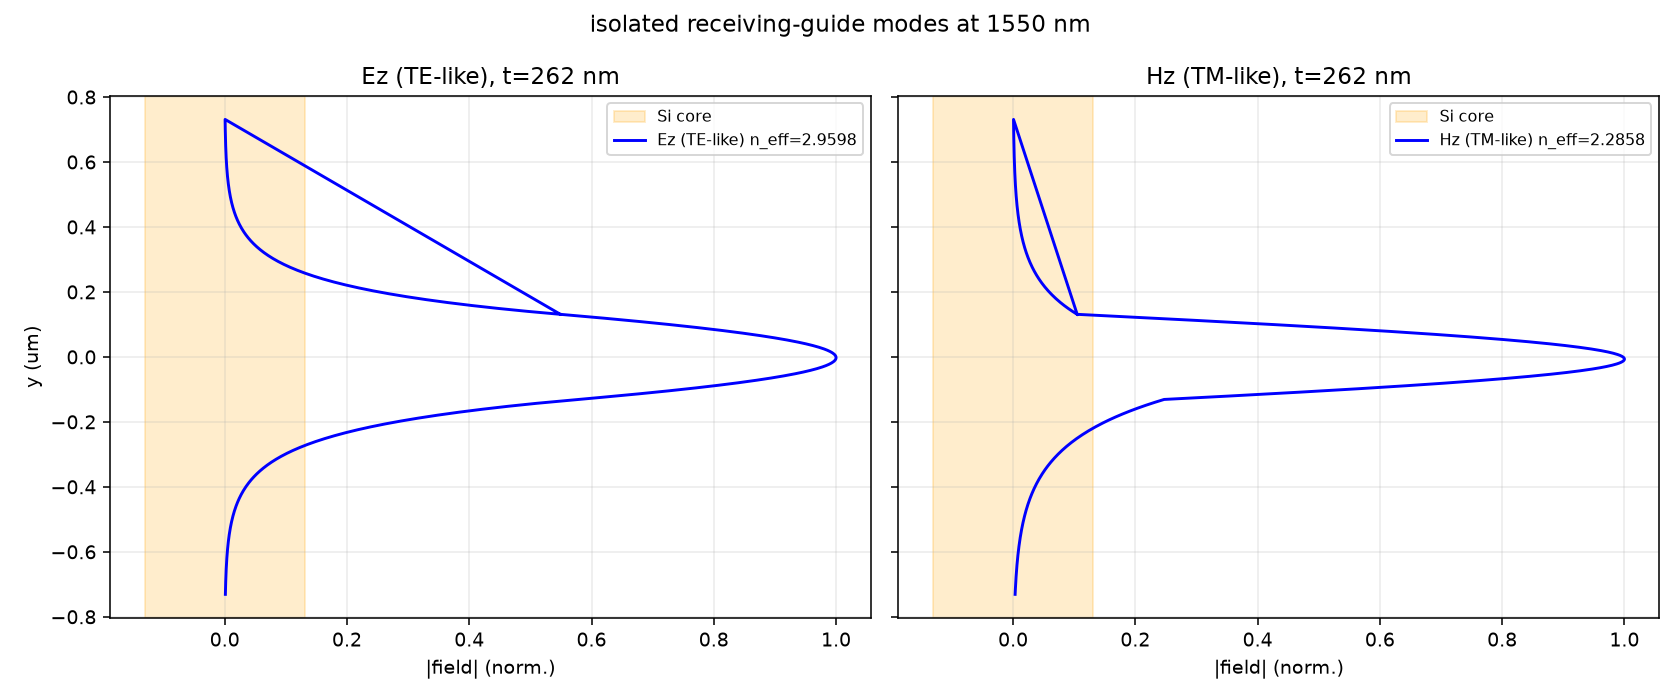
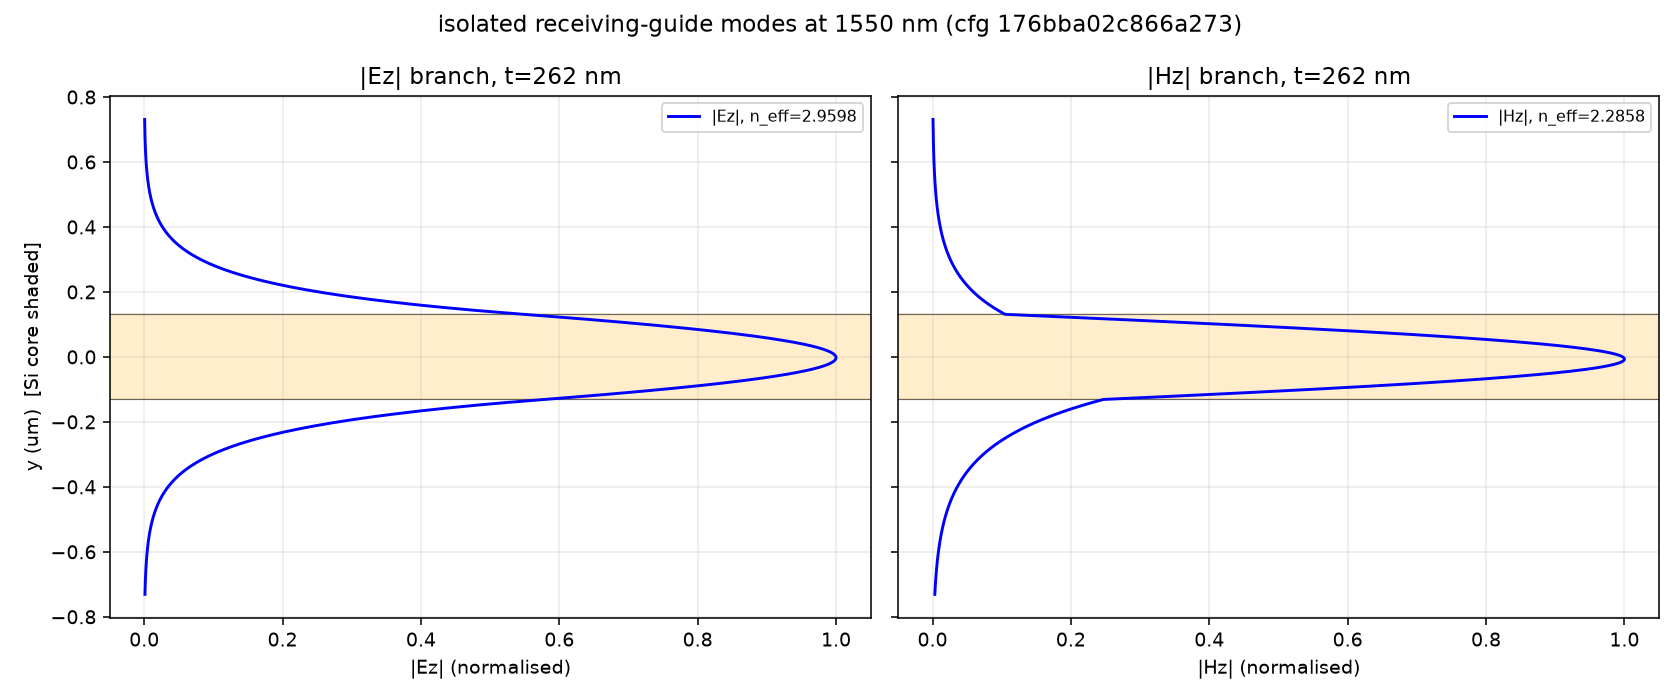
docs: add V0/V1/R6a results and repaired review figures

diff --git a/20260918_volumetric_edge_coupling/reports/V1_R6a_results.md b/20260918_volumetric_edge_coupling/reports/V1_R6a_results.md
@@ -1,0 +1,90 @@
+# V0 / V1 / R6a results
+
+All numbers at 1550 nm, constant indices, nominal 262 nm / 53.50 deg, res 25/um
+unless stated. No thickness or angle was changed.
+
+## V0 — figure and provenance repairs
+
+- `slab_profile` (`src/modes.py`) now returns a monotonically decreasing
+  coordinate so the top cladding, core and bottom cladding plot as one
+  contiguous line (the spurious connecting diagonals are gone).
+- `fig_mode_profiles.png` shades the Si core as a horizontal band in y (was a
+  vertical span in |field|) and labels the axes as normalised |Ez| and |Hz|.
+- Figures carry the config hash and branch; `reports/figs/provenance.md`
+  records timestamp / config hash / branch / mesh / runtime / solver build for
+  each generation. The Poynting figure is now saved per branch
+  (`fig_nominal_poynting_hz.png`), fixing the earlier Ez-vs-Hz ambiguity.
+- Still open: exported **loaded**-mode fields (analogue of the isolated
+  profiles) and a sampled-dielectric zoom with source, both port apertures and
+  the inner PML edge.
+
+## V1 — port validation and same-aperture accounting
+
+Method check on an effectively isolated straight guide (air/Si 262 nm/oxide,
+single bound mode, EigenModeSource):
+
+| quantity | value |
+|---|---|
+| native signed flux | 400.3634 |
+| modal forward power | 400.3606 |
+| native / modal | **1.0000** |
+| backward fraction | 5.6e-6 |
+
+So native flux and modal power agree to <0.01 % on the same aperture for a
+clean single-mode port. The method is trustworthy.
+
+Applied to the nominal coupler output, Hz branch, on the identical aperture:
+
+| quantity | value |
+|---|---|
+| native signed flux | 103.88 |
+| sum forward (bands 1-6) | 100.23 |
+| sum backward (bands 1-6) | 5.28 |
+| modal net | 94.95 |
+| residual (native - modal net)/native | 8.6 % |
+| band 1 (n_eff 2.298) forward | 60.32 |
+| band 2 (n_eff 1.206) forward | 33.84 (cladding/radiation) |
+| Pinc (homogeneous reference) | ~8573 |
+
+Selected-band forward guide content is 60.32/8573 = **0.70 %**; the earlier
+2.3 % custom-line flux was a different aperture and is not a controlled
+comparison. Band 1 is the guide-like loaded mode; band 2 carries substantial
+radiation. Mode identity remains open (band selection vs field overlap).
+
+## R6a — reciprocal Hz guide-mode launch
+
+Launching the loaded band-1 Hz mode from the output toward the interaction
+(`scripts/r6_reciprocal.py`, res 25):
+
+| quantity | value |
+|---|---|
+| guide reflection to +d | 0.50 % |
+| emitted -x power at the Si reference plane (x=-12 um) | 18.59 |
+| fraction of native launched flux | 18.6 % |
+| overlap with the time-reversed 5 um Gaussian (profile) | **0.275** |
+
+The reverse field map (`fig_r6_reverse_hz.png`) shows the launched guide mode
+turning into a **broad diverging fan** in silicon, not a collimated Gaussian
+retracing the incident path. Only ~28 % overlap amplitude with the target
+mode means most emitted power leaves at angles the fibre mode cannot accept.
+
+## Interim reading (not a validated ceiling)
+
+Forward (0.70 % guide channel) and reverse (broad emission, ~28 % mode
+overlap) point the same way: in this declared reconstruction the guide mode
+and the 5 um Gaussian are substantially mismatched. The reverse measurement is
+preliminary: the native launched flux includes radiation bands, the reference
+plane can capture near-field, and direction separation is not yet complete, so
+the reciprocity residual is not yet established at the R6 acceptance threshold.
+The forward/reverse pair has not been shown to agree within
+max(1e-4, 5 %). Mode identity, leakage and accumulated phase remain open. This
+does not yet establish a validated sub-1 % optical limit, and it does not
+disprove the paper.
+
+## Next
+
+1. Complete R6a: launch a single identified guide channel, separate outgoing
+   directions, construct the reciprocal Gaussian from the calibrated forward
+   illumination (phase curvature included), and close the energy budget.
+2. R6b: two finer meshes (50, 75/um) and termination/aperture convergence.
+3. Then select compact mismatch study vs a narrowly targeted calibration.

diff --git a/20260918_volumetric_edge_coupling/reports/figures_index.md b/20260918_volumetric_edge_coupling/reports/figures_index.md
@@ -1,6 +1,6 @@
 # Figure and artifact index + multimodal validation requests
 
-> **Review status (2026-09-18):** [Visual validation and R6 decision](V1_V4_validation_and_R6_plan.md) supersedes the acceptance claims below. Geometry is partially validated, with impact gap 63.77 nm. Loaded-mode identity is open; the two power measurements use different apertures; the isolated-profile plot needs repair. The Poynting figure lacks branch/run provenance (the current default command uses Ez). Treat the loaded-index table and calibration range below as reported exploratory results, not established phase matching or a validated coupling ceiling. Proceed with port validation and reciprocal R6, Hz first. T02 digitization can proceed now.
+> **Review status (2026-09-19):** [Visual validation and R6 decision](V1_V4_validation_and_R6_plan.md) supersedes the acceptance claims below. Geometry is partially validated, with impact gap 63.77 nm. Loaded-mode identity is open; the two power measurements use different apertures; the isolated-profile plot needs repair. The Poynting figure lacks branch/run provenance (the current default command uses Ez). Treat the loaded-index table and calibration range below as reported exploratory results, not established phase matching or a validated coupling ceiling. Proceed with port validation and reciprocal R6, Hz first. T02 digitization can proceed now.
 
 All figures are generated from the current config and are under `reports/figs/`.
 Regenerate static figures with:
@@ -14,7 +14,9 @@ PYTHONPATH=. python scripts/make_figures.py --poynting --res 25 --until 60
 | `fig_geometry.png` | full device frame + wedge zoom; source, beam envelope, TIR impact, guide (262 nm), oxide gap, sidewall, cell/PML | `fig_geometry` |
 | `fig_gap_profile.png` | g(s) in nm vs sidewall coordinate, beam amplitude footprint, interaction window, impact location | `fig_gap_profile` |
 | `fig_mode_profiles.png` | isolated receiving-guide Ez/Hz mode profiles with Si core shading and n_eff | `fig_mode_profiles` |
-| `fig_nominal_poynting.png` | time-averaged Poynting vector at 1550 nm with quiver flow, guide/oxide outlines, net output flux | `fig_poynting` |
+| `fig_nominal_poynting_hz.png` | time-averaged Poynting vector at 1550 nm (Hz branch), quiver flow, guide/oxide outlines, net output flux | `fig_poynting` |
+| `fig_r6_reverse_hz.png` | R6 reverse Hz launch: Sx map with the Si reference plane; shows the broad emitted fan | `scripts/r6_reciprocal.py` |
+| `provenance.md` | config hash / branch / mesh / runtime / solver per figure generation | `write_provenance` |
 | `reports/nominal_fields_cw.png` | (older) instantaneous \|Ez\| CW snapshot | `scripts/field_maps.py` |
 | `reports/T03_phase_matching_note.md`, `reports/R1_R4_diagnostics.md`, `reports/R5_R6_branch_priority.md` | analysis notes | — |
 

diff --git a/20260918_volumetric_edge_coupling/reports/V1_V4_validation_and_R6_plan.md b/20260918_volumetric_edge_coupling/reports/V1_V4_validation_and_R6_plan.md
@@ -1,6 +1,6 @@
 # Figure validation and next-step decision
 
-Review date: 2026-09-18. Scope: the four `reports/figs/fig_*.png` images, cached paper Fig. 2, their plotting/geometry/port/mode implementations, current nominal configuration, and available result records. This is a visual, analytic and source-code review; no new FDTD runs or implementation changes were made.
+Review completed: 2026-09-19. Scope: the four `reports/figs/fig_*.png` images, cached paper Fig. 2, their plotting/geometry/port/mode implementations, current nominal configuration, and available result records. This is a visual, analytic and source-code review; no new FDTD runs or implementation changes were made.
 
 **Decision: choose (c), reciprocal R6 first, with a short port-validation prerequisite. Prioritize Hz and retain one matched Ez control.** Keep 262 nm, 53.5°, the nominal wedge and source fixed for this diagnostic. A complete complex-beta solver is not a prerequisite for R6 if an effectively isolated receiving-guide port can be validated. The low-coupling result and the claimed loaded-mode phase match remain provisional. Do not start a broad geometry search or describe the existing scan as a validated sub-1% ceiling.
 
@@ -140,3 +140,14 @@ All numerical tolerances below are proposed review criteria, not paper claims. K
 Reciprocity by itself is a consistency check, not independent proof of geometry fidelity; the emitted field and overlap decomposition provide the mechanism information. No geometry fitting is authorized solely to reach 88%. Keep nominal and alternative-family results distinct and retain the original reported thickness/angles.
 
 **T02 digitization should proceed now.** It depends on the cached paper, not on accepting a nominal observable. Defer claims of reproduced Fig. 3/4/5 curves until the simulation gates pass; there is no reason to defer assembling and validating the target dataset.
+
+## Reviewed image snapshot
+
+SHA-256 hashes identify the inspected PNGs; they do not supply missing simulation provenance.
+
+| File under `reports/figs/` | SHA-256 |
+|---|---|
[4 lines of base64/hex data omitted]

diff --git a/20260918_volumetric_edge_coupling/reports/figs/provenance.md b/20260918_volumetric_edge_coupling/reports/figs/provenance.md
@@ -1,0 +1,8 @@
+# Figure provenance
+
+Each row records the configuration hash, effective branch, mesh, run time and solver build for the figure set.
+
+| timestamp | config | branch | resolution | until | solver |
+|---|---|---|---|---|---|
+| 2026-09-19T09:29:04-0700 | a141f928c7857c42 | ez | 25.0/60.0 | meep=1.34.0 |
+| 2026-09-19T09:38:31-0700 | 176bba02c866a273 | hz | 25.0/60.0 | meep=1.34.0 |
